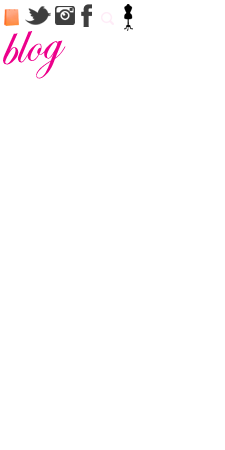
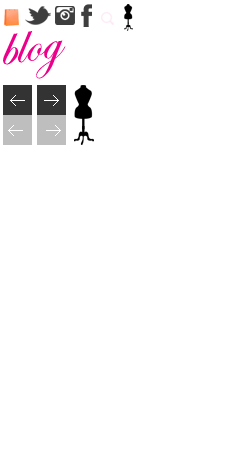
finish index and part of the categories

Changed region(s): [[0.0, 0.1867, 0.4044, 0.3422]]

diff --git a/modelitto/arquivos/css-modelitto-general.css b/modelitto/arquivos/css-modelitto-general.css
@@ -24,7 +24,7 @@ h5{font-size: 10px;}
 
 /* wrapper header */
 .wrapper-header{background: #ec008b;}
-.header{margin:0 auto; width: 1024px; height: 50px; position: relative; padding: 25px 0;}
+.header{height: 50px; position: relative; padding: 25px 1%;}
 	.logo-header{background: url('logo-header.png') no-repeat; width: 420px; height: 71px; float: left; text-indent: -9999px;}
 	.wrapper-header .user-box{float: right; width: 285px;}
 		.user-box .user-acess {float: right; margin-bottom: 10px; position: relative;}
@@ -33,11 +33,11 @@ h5{font-size: 10px;}
 		.user-box .user-acess .my-bag{float: left; padding-left: 10px; width:150px;}
 		.my-bag .bag-top{background-position: 0px -4px;width: 20px;height: 23px;float: right;position: relative;top: -6px;}
 		.user-box .search-top{float: right; position: relative;}
-		.user-box .search-top .text-search{width: 263px; height: 19px; background: #fff; outline: none; border: 1px solid #fff; letter-spacing: 0.1em; padding: 1px 10px; color: #ec008b;text-transform: uppercase;}
+		.user-box .search-top .text-search{width: 263px; height: 19px; font-size: 10px; background: #fff; outline: none; border: 1px solid #fff; letter-spacing: 0.1em; padding: 1px 10px; color: #ec008b;text-transform: uppercase;}
 		.user-box .search-top .btn-submit-search{float: right; position: relative; width: 25px; height: 19px; border:none; text-indent: -9999px; background-color: #ec008b;top: -21px;right: 2px;background-position: -95px -9px; cursor: pointer;}
 /* wrapper nav */
 .wrapper-nav{background: #feeaf6;}
-	.nav{margin:0 auto; width: 1024px; height: 25px; position: relative; padding: 12.5px 0;}
+	.nav{height: 25px; position: relative; padding: 12px 1%;}
 		.nav-header{}
 		.nav-header li a{padding: 6px 11px; float: left; text-transform: uppercase; font-weight: 600;}
 		.nav-header li a:hover{text-decoration: underline;}
@@ -54,25 +54,68 @@ h5{font-size: 10px;}
 
 /* CONTENT CONTAINER */
 
-.content-container{width: 100%; position: relative;}
+.content-container{width: 100%; position: relative; background: #fff;}
 
 /* super banner */
 .wrapper-big-banner{width: 100%; background-color: #fff;}
-.wrapper-big-banner .banner{margin: 0 auto; width: 1024px; position: relative;}
+.wrapper-big-banner .banner{width: 100%; text-indent: -9999px; background: url('super-banner1.png') no-repeat center top; display: block; height: 457px;}
 .wrapper-medium-banner{width: 100%; background-color: #fff;margin: 0;overflow: hidden;text-align: center;}
 .wrapper-medium-banner .banner-left{width: 100% !important;}
 .wrapper-medium-banner .banner-right{width: 100% !important;}
 
 /* vitrine home */
 
-.wrapper-vitrine-home{margin: 40px 0;}
-.title-session{width: 1024px; margin:0 auto; position: relative;}
-.line-left{background: url('line-title-left.png') no-repeat; background-position: 0px 8px;height: 14px;float: left;width: 404px;}
-.line-right{background: url('line-title-right.png') no-repeat; background-position: 0px 8px;height: 14px;float: left;width: 404px;}
-.cat-title h3{background-position: 0px 8px;height: 14px;float: left; font-size: 16px; text-transform: uppercase; text-align: center; padding: 0 30px;}
-.wrapper-carossel{height: 300px; margin: 40px 0;}
-.vitrine-home{width:100%; margin: 0 auto;}
-.wrapper-carossel .list-collection{float: left; display: block; padding: 0; text-align: center; margin: 0 15px;}
+.wrapper-vitrine-home{margin: 40px 0; position: relative;}
+.wrapper-vitrine-home .title-session{ margin:0 auto; position: relative; width: 980px; background: url('line-vitrine-home.png') no-repeat center top; background-position: 0px 8px;}
+.wrapper-vitrine-home .cat-title{padding: 0 350px;}
+.wrapper-vitrine-home .cat-title h3{background: #fff; height: 14px; font-size: 21px; text-transform: uppercase; text-align: center; padding: 0 30px;}
+.wrapper-vitrine-home .wrapper-carossel{height: 300px; margin: 40px 0;}
+.vitrine-home{width:100%; margin: 0; display: block; padding: 0;}
+.wrapper-carossel .list-collection{float: left; display: block; padding: 0; text-align: center; margin: 0 15px; width: 170px;}
 .ver-todos-modelittos{width: 100%; margin: 0 auto; text-align: right;}
-.ver-todos{padding: 0 20px;}
-.icon-ver-modelitto{background-position: 0px 0px; width: 20px; height: 20px;}
+.ver-todos{position: absolute; top: 390px; right: 30px;}
+.ver-todos a{margin-top: 10px;}
+.icon-ver-modelitos{background-position: -123px -3px; width: 11px; height: 29px; float: left;margin-right: 10px; margin-top: -7px;}
+.carossel-vitrine-home .control{ top: 190px; z-index: 2; width: 30px; position: absolute; height: 30px; }
+.carossel-vitrine-home .control a{text-indent: -9999px; width: 100%; height: 100%; display: block;}
+.carossel-vitrine-home .prev{left: 0; background: url('btn-prev.png') no-repeat;}
+.carossel-vitrine-home .next{right: 0; background: url('btn-next.png') no-repeat;}
+
+
+/* CONTENT FOOTER */
+
+/* modelitto informa */
+.wrapper-modelitto-informa {background:#ec008b; padding: 20px 0; width: 100%; }
+.wrapper-modelitto-informa .cat-title{padding: 0 350px;}
+.wrapper-modelitto-informa .title-session{ margin:0 auto; position: relative; width: 980px; background: url('line-title-footer.png') no-repeat center top; background-position: 0px 8px;}
+.footer-container .cat-title h3{color: #fff; height: 14px; font-size: 21px; text-transform: uppercase; text-align: center; padding: 0 30px; background: #ec008b;}
+.cadastro-newslatter{width: 980px; margin: 0 auto; position: relative; padding-top: 20px; text-align: center; color:#fff; text-transform: uppercase;}
+.cadastro-newslatter .form-cadastro-newslatter{margin-top: 10px; }
+.form-cadastro-newslatter .input-text{width: 185px; height: 22px; padding: 0 10px; font-size: 10px; outline: none; border: none; text-transform: uppercase; margin-right: 10px;}
+.form-cadastro-newslatter .input-text{font-size/*\**/: 10px\9;}
+.form-cadastro-newslatter .submit-email{background: url('btn-cadastrar.png') no-repeat center top; height: 22px; width: 160px; border: none; cursor: pointer; text-indent: -9999px;}
+
+/* modelitto bottom footer */
+
+.wrapper-footer-bottom{ background: #fff; width: 98%; padding: 0 1%;}
+.fale-conosco{position: relative; padding: 25px 0; margin: 0 auto; width: 980px;}
+.fale-conosco .box{display: inline; height: 90px; float: left;}
+.fale-conosco .sub-title{text-transform: uppercase; margin-bottom: 15px; font-size: 14px; margin-top: 10px; display: block; text-align: center;}
+.fale-conosco .logo-footer{width: 4%;}
+.fale-conosco .contact{width: 27%; text-align: center; text-transform: uppercase;}
+.fale-conosco .contatos{font-size: 11px;}
+.fale-conosco .compre{width: 13%; text-align: center; margin-left: 75px;}
+.fale-conosco .site-seguro{width: 14%; text-align: center; margin-left: 105px;}
+.fale-conosco .redes-sociais{width: 13%; text-align: center; float: right;}
+.fale-conosco .redes-sociais .redes{padding-left: 10px; float: left;}
+.fale-conosco .redes-sociais .tw{height: 20px; width: 23px; float: left; background-position: -28px -6px;}
+.fale-conosco .redes-sociais .fb{height: 20px; width: 23px; float: left; background-position: -77px -6px; margin: 0 20px;}
+.fale-conosco .redes-sociais .inst{height: 20px; width: 23px; float: left; background-position: -53px -6px;}
+
+.nav-footer{ position: relative; padding: 25px 0; background: url('line-nav-footer.png') no-repeat center top; width: 980px; margin: 0 auto;}
+.nav-footer .navegador{}
+.nav-footer .navegador .lista{float: left; padding:0 1.8%; border-right: 1px solid #d0d0d0;text-transform: uppercase;font-size: 11px;}
+	.nav-footer .navegador .last{border-right: none; padding-right: 0;}
+	.nav-footer .navegador .first{padding-left: 0;}
+		.nav-footer .navegador a{color:#3c3c3c;}
+		.nav-footer .navegador a:hover{text-decoration: underline;}

diff --git a/modelitto/categoria.html b/modelitto/categoria.html
@@ -8,6 +8,7 @@
 	<!-- styles -->
 	<link rel="stylesheet" href="arquivos/css-modelitto-reset.css" />
 	<link rel="stylesheet" href="arquivos/css-modelitto-general.css" />
+	<link rel="stylesheet" href="arquivos/css-modelitto-search.css" />
 	<!-- scripts -->
 	<script language="javascript" src="arquivos/jquery-1.4.2.min.js" type="text/javascript"></script>
 </head>
@@ -61,75 +62,82 @@
 			</div><!-- end wrapper nav -->
 		</div><!-- end header container -->
 		<!-- start content container -->
-		<div class="content-container">
-			<div class="wrapper-big-banner clearfix">
-				<a href="#" class="banner">Banner 1</a>
-			</div>
-			<!-- medium banner -->
-			<div class="wrapper-medium-banner clearfix">
-				<div class="banner-left">
-					<a href="#"><img src="arquivos/medium-banner.png" alt="" /></a>
-				</div>
-			</div><!-- end medium banner -->
-			<!-- vitrine home -->
-			<div class="wrapper-vitrine-home clearfix">
-				<ul class="title-session clearfix">
-					<li class="line-left-vitrine"></li>
-					<li class="cat-title"><h3>Nome da vitrine</h3></li>
-					<li class="line-right-vitrine"></li>
+		<div class="content-container clearfix">
+			<div class="bredcrumbs clearfix">
+				<span class="youare">Você esta em:</span>
+				<ul>
+					<li><a href="#">Home</a></li>
+					<span class="barra">/</span>
+					<li><a href="#">Roupas</a></li>
+					<span class="barra">/</span>
+					<li class="last">Vestidos</li>
 				</ul>
-				<!-- carossel vitrine -->
-				<div class="carossel-vitrine-home clearfix">
-					<div class="control prev"><a href="#"  class="">Anterior</a></div>
-					<div class="wrapper-carossel clearfix">
-						<ul class="vitrine-home">
-							<li class="list-collection">
-								<div class="img-product">
-									<a href="#"><img src="arquivos/vitrine-product1.png" alt="" title="Produto 1" /></a>
-								</div>
-								<div class="desc-product"></div>
-							</li>
-							<li class="list-collection">
-								<div class="img-product">
-									<a href="#"><img src="arquivos/vitrine-product1.png" alt="" title="Produto 1" /></a>
-								</div>
-								<div class="desc-product"></div>
-							</li>
-							<li class="list-collection">
-								<div class="img-product">
-									<a href="#"><img src="arquivos/vitrine-product1.png" alt="" title="Produto 1" /></a>
-								</div>
-								<div class="desc-product"></div>
-							</li>
-							<li class="list-collection">
-								<div class="img-product">
-									<a href="#"><img src="arquivos/vitrine-product1.png" alt="" title="Produto 1" /></a>
-								</div>
-								<div class="desc-product"></div>
-							</li>
-							<li class="list-collection">
-								<div class="img-product">
-									<a href="#"><img src="arquivos/vitrine-product1.png" alt="" title="Produto 1" /></a>
-								</div>
-								<div class="desc-product"></div>
-							</li>
-							<li class="list-collection">
-								<div class="img-product">
-									<a href="#"><img src="arquivos/vitrine-product1.png" alt="" title="Produto 1" /></a>
-								</div>
-								<div class="desc-product"></div>
-							</li>
+			</div>
+			<!-- start filter nav -->
+			<div class="filter-nav clearfix">
+				<h3 class="categorias"><a href="#">Categorias</a></h3>
+				<ul class="categorias">
+					<li><a href="#">Beachwear (27)</a></li>
+					<li><a href="#">Beachwear (27)</a></li>
+					<li><a href="#">Beachwear (27)</a></li>
+					<li><a href="#">Beachwear (27)</a></li>
+					<li><a href="#">Beachwear (27)</a></li>
+					<li><a href="#">Beachwear (27)</a></li>
+				</ul>
+				<h3 class="categorias"><a href="#">Marcas</a></h3>
+				<ul class="categorias">
+					<li><a href="#">Amapo</a></li>
+					<li><a href="#">Amapo</a></li>
+					<li><a href="#">Amapo</a></li>
+					<li><a href="#">Amapo</a></li>
+					<li><a href="#">Amapo</a></li>
+					<li><a href="#">Amapo</a></li>
+				</ul>
+				<h3 class="categorias"><a href="#">Faixa de preço</a></h3>
+				<ul class="categorias">
+					<li><a href="#">Até R$ 50,00</a></li>
+					<li><a href="#">R$50,00 a R$100,00</a></li>
+					<li><a href="#">R$50,00 a R$100,00</a></li>
+					<li><a href="#">R$50,00 a R$100,00</a></li>
+					<li><a href="#">R$50,00 a R$100,00</a></li>
+				</ul>
+			</div><!-- end filter nav -->
+			<!-- start vitrine -->
+			<div class="vitrine clearfix">
+				<!-- start filtro -->
+				<div class="filtro clearfix">
+					<div class="itens itens-pag">
+						<span class="order">Itens por página</span>
+						<form action="" class="form-itens-pag">
+							<select name="" id="" class="select-filter">
+								<option value="" class="format-text">16</option>
+								<option value="" class="format-text">17</option>
+								<option value="" class="format-text">18</option>
+								<option value="" class="format-text">19</option>
+							</select>
+						</form>
+					</div>
+					<div class="itens order-price">
+						<span class="order">Ordenar por</span>
+						<form action="" class="form-order-preco">
+							<select name="" id="" class="select-filter">
+								<option value="" class="format-text">Preço</option>
+								<option value="" class="format-text">R$100,00</option>
+								<option value="" class="format-text">R$200,00</option>
+								<option value="" class="format-text">R$300,00</option>
+							</select>
+						</form>
+					</div>
+					<div class="itens nav-pagination">
+						<ul>
+							<li class="first select">1</li>
+							<li class="">2</li>
+							<li class="">3</li>
+							<li class="last">4</li>
 						</ul>
 					</div>
-					<div class="ver-todos-modelittos clearfix">
-						<div class="ver-todos">
-							<span class="icons icon-ver-modelitos"></span>
-							<a href="#">Ver todos os modelittos</a>
-						</div>
-						</div>
-					<div class="control next"><a href="#" class="">Próximo</a></div>
-				</div><!-- end vitrine carossel -->
-			</div><!-- end vitrine home -->
+				</div><!-- end filtro -->
+			</div><!-- end vitrine -->
 		</div><!-- end content container -->
 		<!-- start footer container -->
 		<div class="footer-container clearfix">

diff --git a/modelitto/arquivos/css-modelitto-search.css b/modelitto/arquivos/css-modelitto-search.css
@@ -1,0 +1,31 @@
+/* BUSCA CATEGORIA */
+
+.content-container .bredcrumbs{border-bottom: 1px solid #feeaf6; padding: 15px 1%; text-transform: uppercase; font-size: 10px; margin-bottom: 15px;}
+.content-container .bredcrumbs .barra{float:left; margin:0 5px;}
+.bredcrumbs .youare{float: left; margin-right: 5px;}
+.bredcrumbs li{float: left;}
+.bredcrumbs a{color: #000;}
+.bredcrumbs a:hover{text-decoration: underline;}
+.bredcrumbs .last{color: #ec008b; font-weight: bold;}
+
+/* filter nav */
+.content-container .filter-nav{float: left; padding-left: 1%; width: 12%;}
+.content-container .vitrine{float: left; margin: 0; padding:0 0 0 2%; width: 84%; height: 300px;}
+.filter-nav h3{padding: 6px 0; border-bottom: 1px solid #feeaf6; text-transform: uppercase; margin-bottom: 15px;}
+.filter-nav h3 a{color: #ec008b;}
+.filter-nav ul{margin-bottom: 20px;}
+.filter-nav ul li{padding-bottom: 15px; text-transform: uppercase;}
+.filter-nav ul li a{font-weight: 600; color: #000;}
+
+/* vitrine */
+
+.vitrine .filtro{display: block; padding: 3px 0; background: #fff9fc; border: 1px solid #feeaf6; position: relative;}
+.filtro .select-filter{outline: none; text-transform: uppercase; font-size: 10px; margin-top: 2px; border: 1px solid #d0d0d0; border-radius: 3px;}
+.form-itens-pag .select-filter{width: 50px;}
+.filtro .order{float: left; padding: 5px 20px; text-transform: uppercase; font-size: 11px;}
+.filtro .itens-pag .form-itens-pag{float: left;}
+.filtro .order-price{float: left; right: 20%; position: absolute;}
+.filtro .order-price .form-order-preco{float: right;}
+.filtro .nav-pagination{float: right;}
+.filtro .nav-pagination li{float: left;}
+
